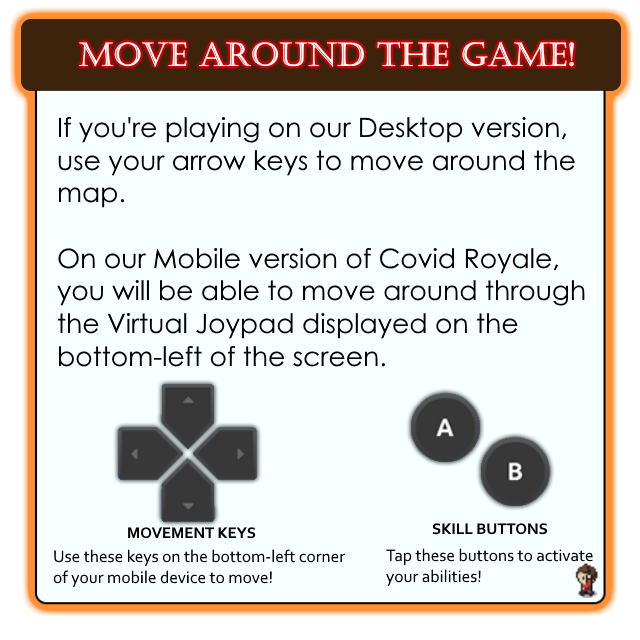
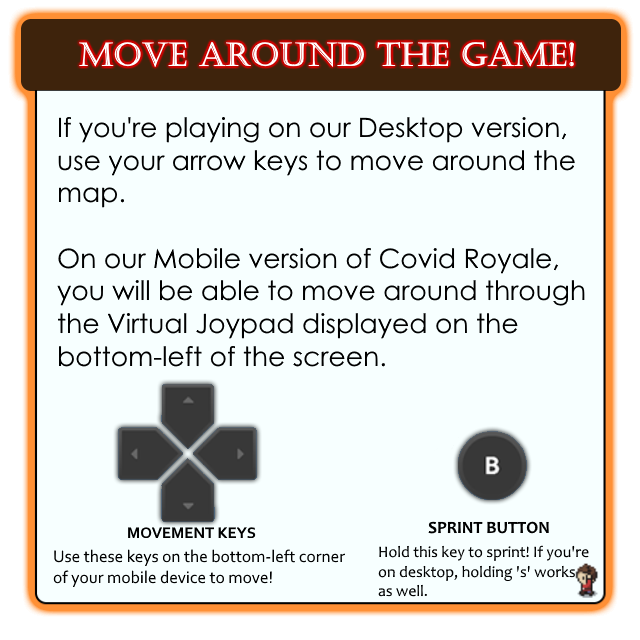
Changed card 1 and made the BTT button smaller

Changed region(s): [[0.5938, 0.5938, 0.9375, 0.9375]]

diff --git a/public/index.html b/public/index.html
@@ -377,7 +377,7 @@
     window.onscroll = function () { scrollFunction() };
 
     function scrollFunction() {
-      if (document.body.scrollTop > 20 || document.documentElement.scrollTop > 20) {
+      if (document.body.scrollTop > 500 || document.documentElement.scrollTop > 500) {
         mybutton.style.display = "block";
       } else {
         mybutton.style.display = "none";

diff --git a/public/css/carousel.css b/public/css/carousel.css
@@ -114,10 +114,10 @@ body {
   font-size: 18px;
   border: none;
   outline: none;
-  background-color: red;
+  background-color: rgb(124, 72, 221);
   color: white;
   cursor: pointer;
-  padding: 15px;
+  padding: 8px;
   border-radius: 4px;
 }
 
